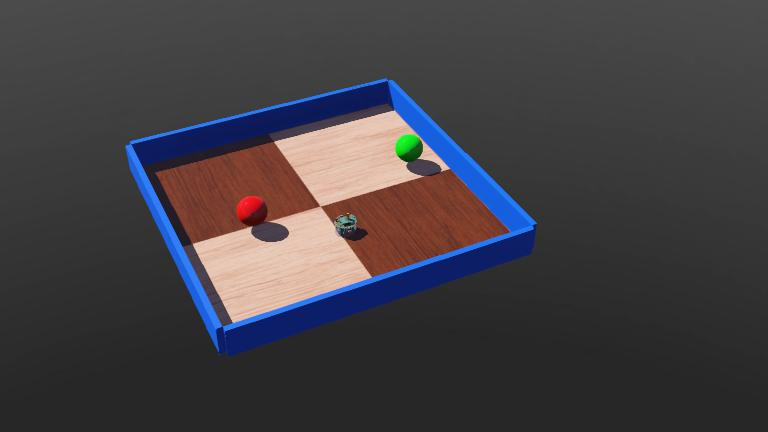
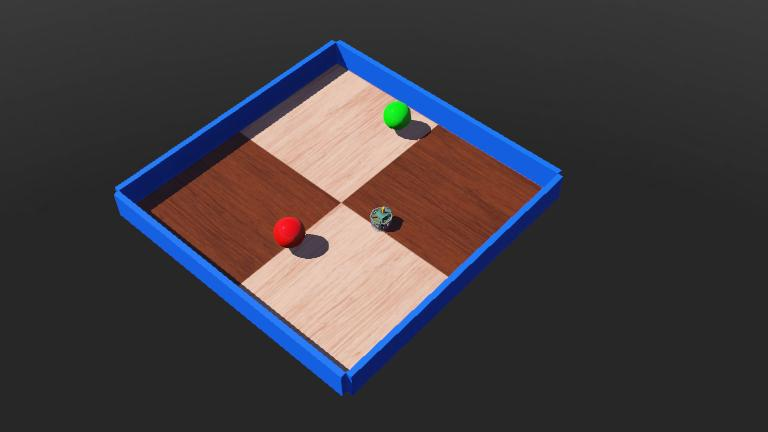
Update Code to move in a straight line

Changed region(s): [[0.125, 0.0602, 0.75, 0.9329]]

diff --git a/my_first_simulation/controllers/epuck_blob_recognition/epuck_blob_recognition.cpp b/my_first_simulation/controllers/epuck_blob_recognition/epuck_blob_recognition.cpp
@@ -80,8 +80,8 @@ int main(int argc, char **argv) {
       rightSpeed = 0.0;
       red = false;
     } else {
-      leftSpeed = 1 * MAX_SPEED;
-      rightSpeed = 0.7 * MAX_SPEED;
+      leftSpeed = 0.2 * MAX_SPEED;
+      rightSpeed = 0.2 * MAX_SPEED;
     }
 
     // write actuators inputs
